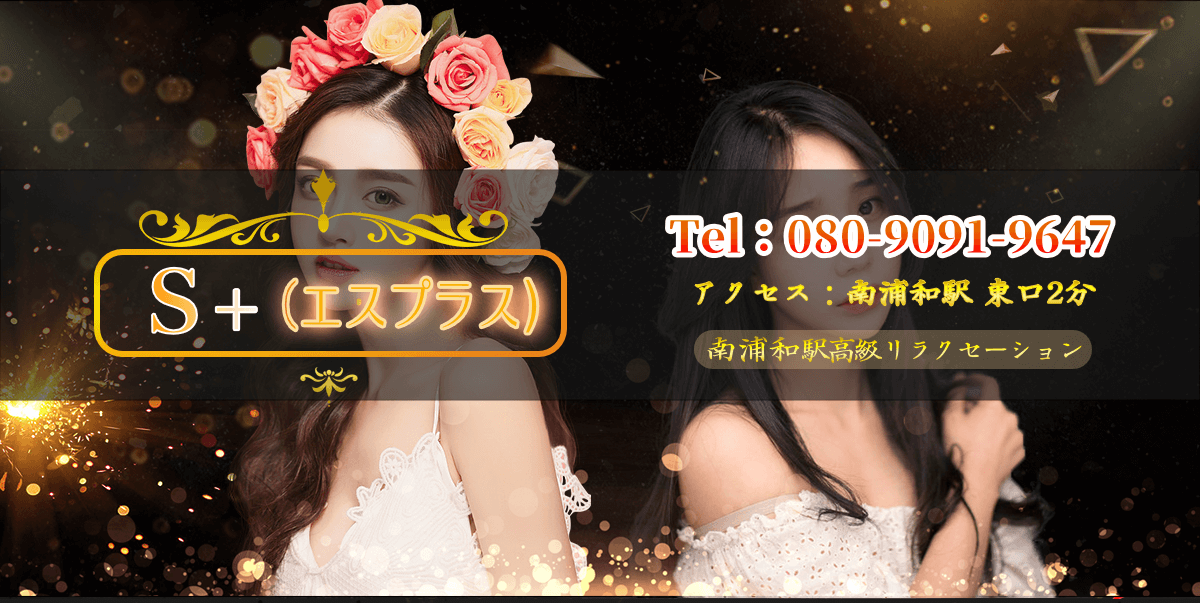
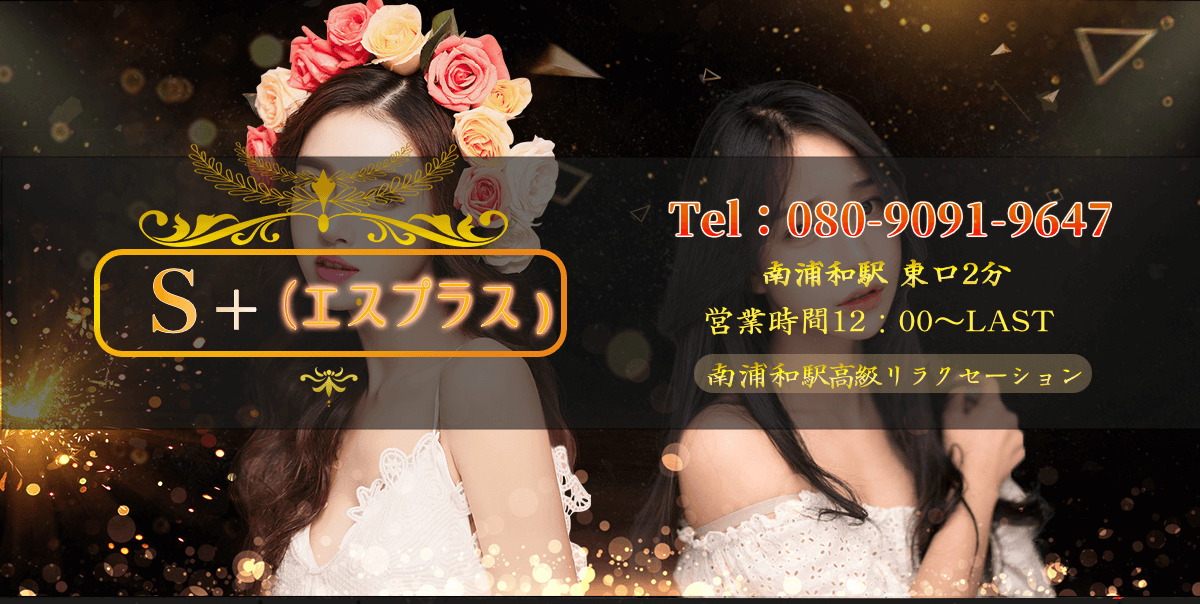
ss
ss

diff --git a/recruit.html b/recruit.html
@@ -1,2 +1,2 @@
-<!DOCTYPE html><html><head><meta charset="utf-8"/><title>S+(エスプラス）in南浦和駅 東口2分リラクセーション　マッサージ　メンズエステ　リンパマッサージ【S+(エスプラス）】</title><meta name="keywords" content="S+(エスプラス）南浦和駅 東口2分エステ,S+(エスプラス）アジア，アロママッサージ,精力回復,ストレス解消,アロマオイル,ボディケア,フットケア"/><meta name="description" content="南浦和駅 東口2分本格アロママッサージ，S+(エスプラス）でございます，オイルマッサージで精力を増強します，仕事のストレスを解消いただきます。"/><meta name="viewport" content="width=device-width,user-scalable=yes"/><script src="https://cdn.staticfile.org/jquery/1.10.2/jquery.min.js"></script><link rel="stylesheet" href="swiper.min.css"/><link rel="stylesheet" href="css/nav_top.css"/></head><body class="body"><div class="top"><a class="tel" href="tel://08090919647"><div class="tels"></div></a></div><div class="navLage"><div class="navButton"><a href="index.html"><img src="img/images/nav_01.png"/></a></div><div class="navButton"><a href="system.html"><img src="img/images/nav_02.png"/></a></div><div class="navButton"><a href="girl.html"><img src="img/images/nav_03.png"/></a></div><div class="navButton"><a href="room.html"><img src="img/images/nav_05.png"/></a></div><div class="navButton"><a href="access.html"><img src="img/images/nav_07.png"/></a></div><div class="navButton"><a href="recruit.html"><img src="img/images/nav_06.png"/></a></div></div></body></html><link rel="stylesheet" href="css/4page.css"/><div class="Titles"><div class="recruittitle"></div></div><div class="recruit"><div><p>業&nbsp;種</p><p>リラクセーション</p></div><div style="height: 115px;"><p>給&nbsp;与</p><p style="height: 80px;">日払い OK!<br/>※高額保証制度有り<br/>ボーナス制度有り</p></div><div><p>時&nbsp;間&nbsp;</p><p>11:00～Last</p></div><div><p>資&nbsp;格&nbsp;</p><p>18歳～30歳位まで</p></div><div><p>勤務日&nbsp;</p><p>自&nbsp;由</p></div><div><p>応&nbsp;募&nbsp;</p><p>お電話の上、お気軽にご来店下さい。</p></div><div style="height: 136px;"><p>待&nbsp;遇&nbsp;</p><p style="height: 103px;">完全全額日払制、高額保証制度有り、個室待機制(TV・冷蔵庫・シャワー完備)、衛生管理万全、ノルマ・罰金一切なし、店内見学&amp;1日体験入店大歓迎</p></div><div><p>電&nbsp;話&nbsp;</p><p> <a href="tel://08090919647">tel：080-9091-9647</a></p></div></div><div class="endimg"><div class="footlogo"></div><div class="footline"></div></div><h1>S+(エスプラス）in南浦和駅 東口2分</h1><script src="swiper.min.js"></script><script src="js/index.js"></script><a href="https://www.a-side.com/" title="アジアンエステのエーサイド" target="_blank"><img src="https://www.a-side.com/banner/a-side_1s.gif" width="150" height="40"style="object-fit: contain;" alt="アジアンエステのエーサイド"></a>
+<!DOCTYPE html><html><head><meta charset="utf-8"/><title>S+(エスプラス）in南浦和駅 東口2分リラクセーション　マッサージ　メンズエステ　リンパマッサージ【S+(エスプラス）】</title><meta name="keywords" content="S+(エスプラス）南浦和駅 東口2分エステ,S+(エスプラス）アジア，アロママッサージ,精力回復,ストレス解消,アロマオイル,ボディケア,フットケア"/><meta name="description" content="南浦和駅 東口2分本格アロママッサージ，S+(エスプラス）でございます，オイルマッサージで精力を増強します，仕事のストレスを解消いただきます。"/><meta name="viewport" content="width=device-width,user-scalable=yes"/><script src="https://cdn.staticfile.org/jquery/1.10.2/jquery.min.js"></script><link rel="stylesheet" href="swiper.min.css"/><link rel="stylesheet" href="css/nav_top.css"/></head><body class="body"><div class="top"><a class="tel" href="tel://08090919647"><div class="tels"></div></a></div><div class="navLage"><div class="navButton"><a href="index.html"><img src="img/images/nav_01.png"/></a></div><div class="navButton"><a href="system.html"><img src="img/images/nav_02.png"/></a></div><div class="navButton"><a href="girl.html"><img src="img/images/nav_03.png"/></a></div><div class="navButton"><a href="room.html"><img src="img/images/nav_05.png"/></a></div><div class="navButton"><a href="access.html"><img src="img/images/nav_07.png"/></a></div><div class="navButton"><a href="recruit.html"><img src="img/images/nav_06.png"/></a></div></div></body></html><link rel="stylesheet" href="css/4page.css"/><div class="Titles"><div class="recruittitle"></div></div><div class="recruit"><div><p>業&nbsp;種</p><p>リラクセーション</p></div><div style="height: 115px;"><p>給&nbsp;与</p><p style="height: 80px;">日払い OK!<br/>※高額保証制度有り<br/>ボーナス制度有り</p></div><div><p>時&nbsp;間&nbsp;</p><p>12:00～Last</p></div><div><p>資&nbsp;格&nbsp;</p><p>18歳～30歳位まで</p></div><div><p>勤務日&nbsp;</p><p>自&nbsp;由</p></div><div><p>応&nbsp;募&nbsp;</p><p>お電話の上、お気軽にご来店下さい。</p></div><div style="height: 136px;"><p>待&nbsp;遇&nbsp;</p><p style="height: 103px;">完全全額日払制、高額保証制度有り、個室待機制(TV・冷蔵庫・シャワー完備)、衛生管理万全、ノルマ・罰金一切なし、店内見学&amp;1日体験入店大歓迎</p></div><div><p>電&nbsp;話&nbsp;</p><p> <a href="tel://08090919647">tel：080-9091-9647</a></p></div></div><div class="endimg"><div class="footlogo"></div><div class="footline"></div></div><h1>S+(エスプラス）in南浦和駅 東口2分</h1><script src="swiper.min.js"></script><script src="js/index.js"></script><a href="https://www.a-side.com/" title="アジアンエステのエーサイド" target="_blank"><img src="https://www.a-side.com/banner/a-side_1s.gif" width="150" height="40"style="object-fit: contain;" alt="アジアンエステのエーサイド"></a>
 <a href="https://www.es-navi.com/" target="_blank"><img src="https://img.es-navi.com/banners/es-navi_150x40.gif" width="150" height="40" style="object-fit: contain;" alt="エステナビ～全国のエステ検索の決定版！"><script>divHeight(2.0,"focus");</script>

diff --git a/css/index.css b/css/index.css
@@ -86,7 +86,7 @@
 }
 .event{
     width: 900px;
-    height: 538px;
+    height: 708px;
     background-image: url(../img/event.gif);
 }
 .news{
